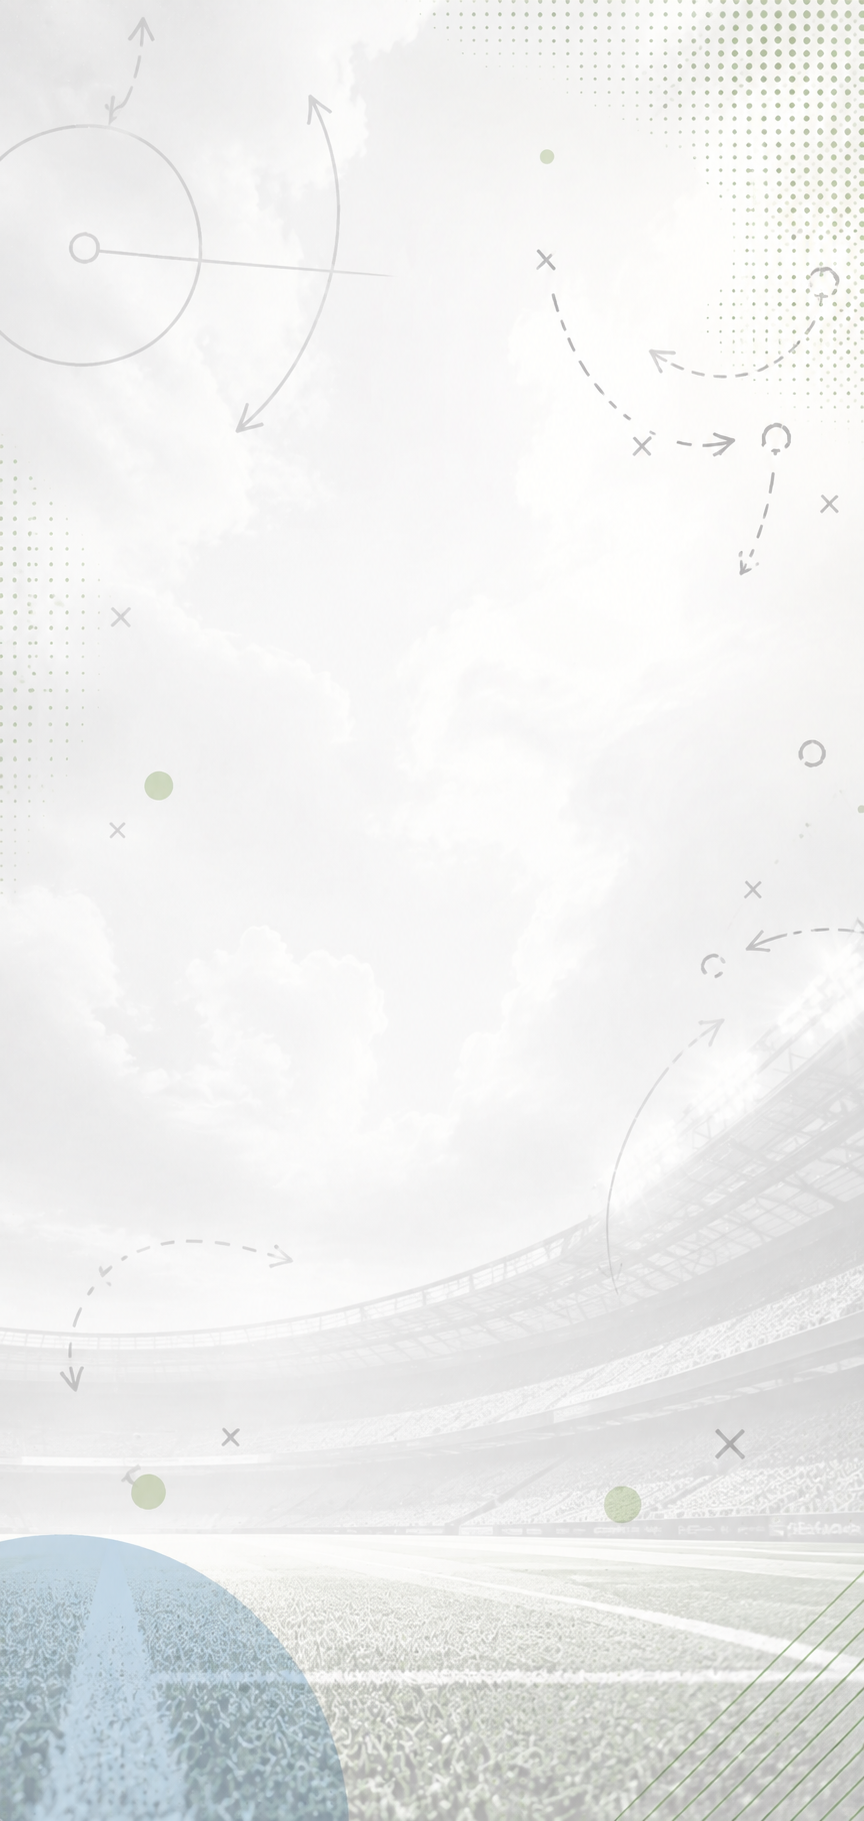
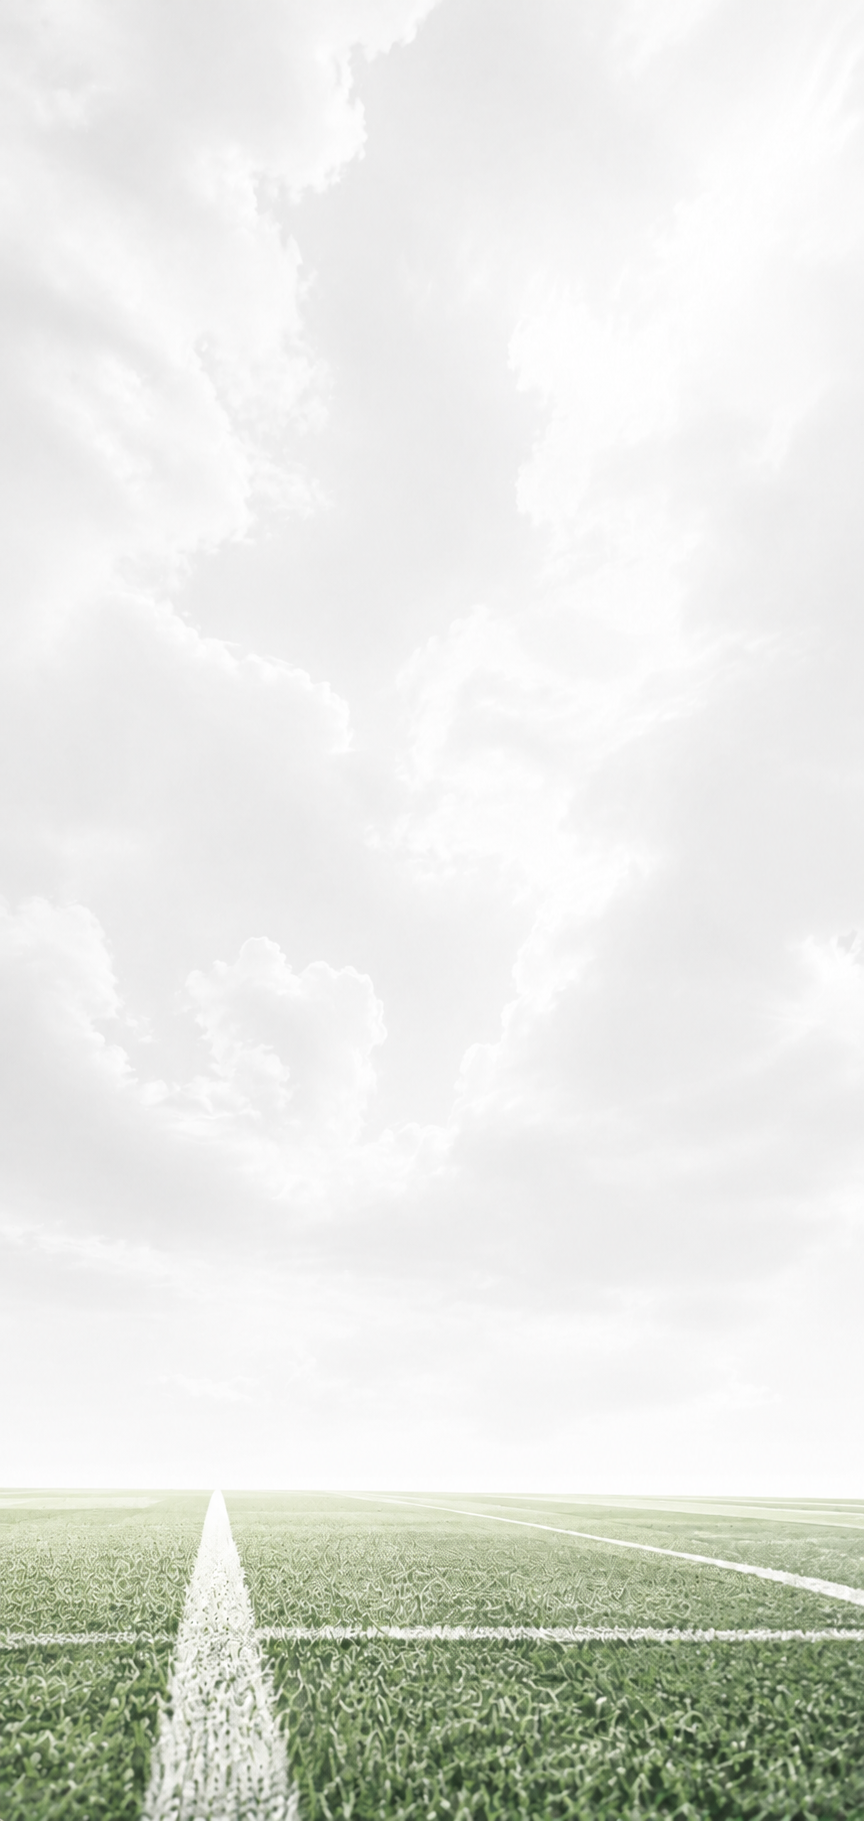
style: remove box-shadow from Tino Deniz image wrapper

diff --git a/css/styles.css b/css/styles.css
@@ -649,9 +649,7 @@ ul { list-style: none; }
 }
 
 .beneficios__visual-img {
-    border-radius: 20px;
-    overflow: hidden;
-    box-shadow: 0 24px 60px rgba(0,0,0,0.15);
+    display: block;
 }
 
 .beneficios__visual-img img {
@@ -660,14 +658,7 @@ ul { list-style: none; }
 }
 
 .beneficios__visual-accent {
-    position: absolute;
-    top: -20px;
-    right: -20px;
-    width: 120px;
-    height: 120px;
-    border-radius: 50%;
-    background: radial-gradient(circle, rgba(70,172,55,0.3), transparent);
-    filter: blur(25px);
+    display: none;
 }
 
 .beneficios__list {
